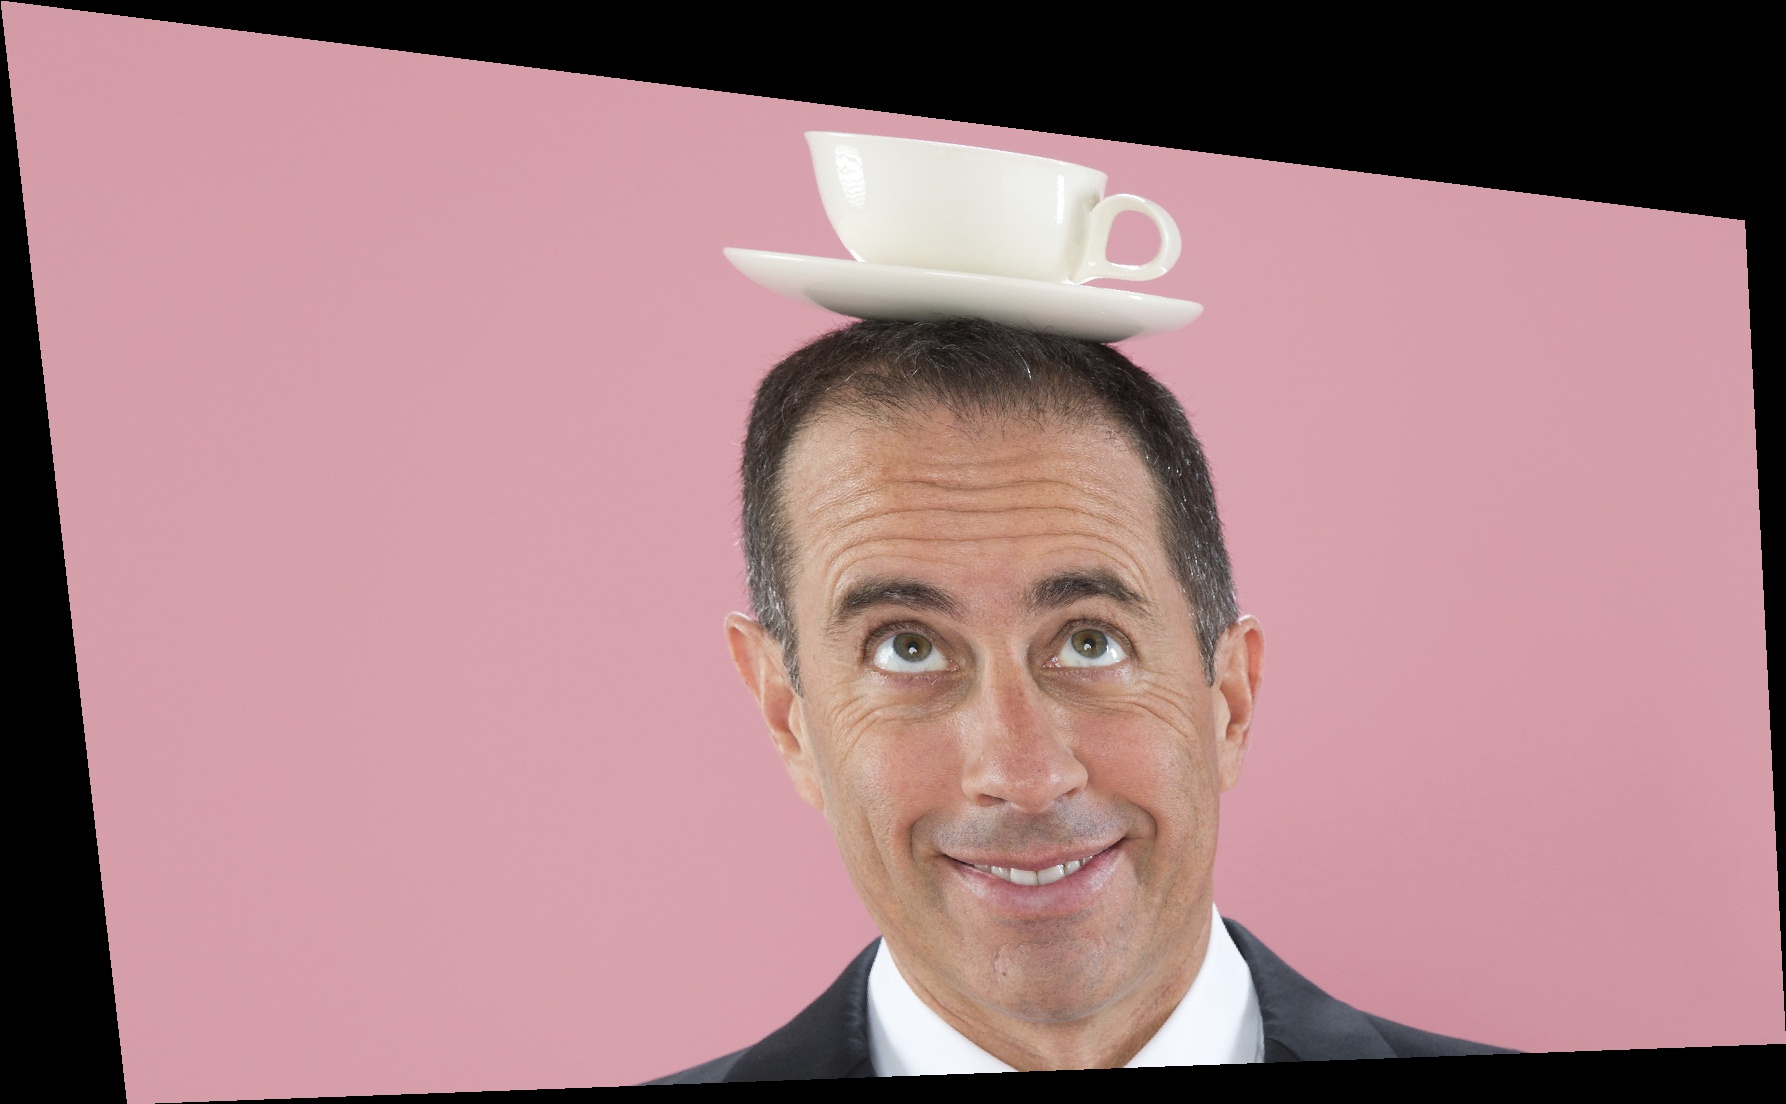
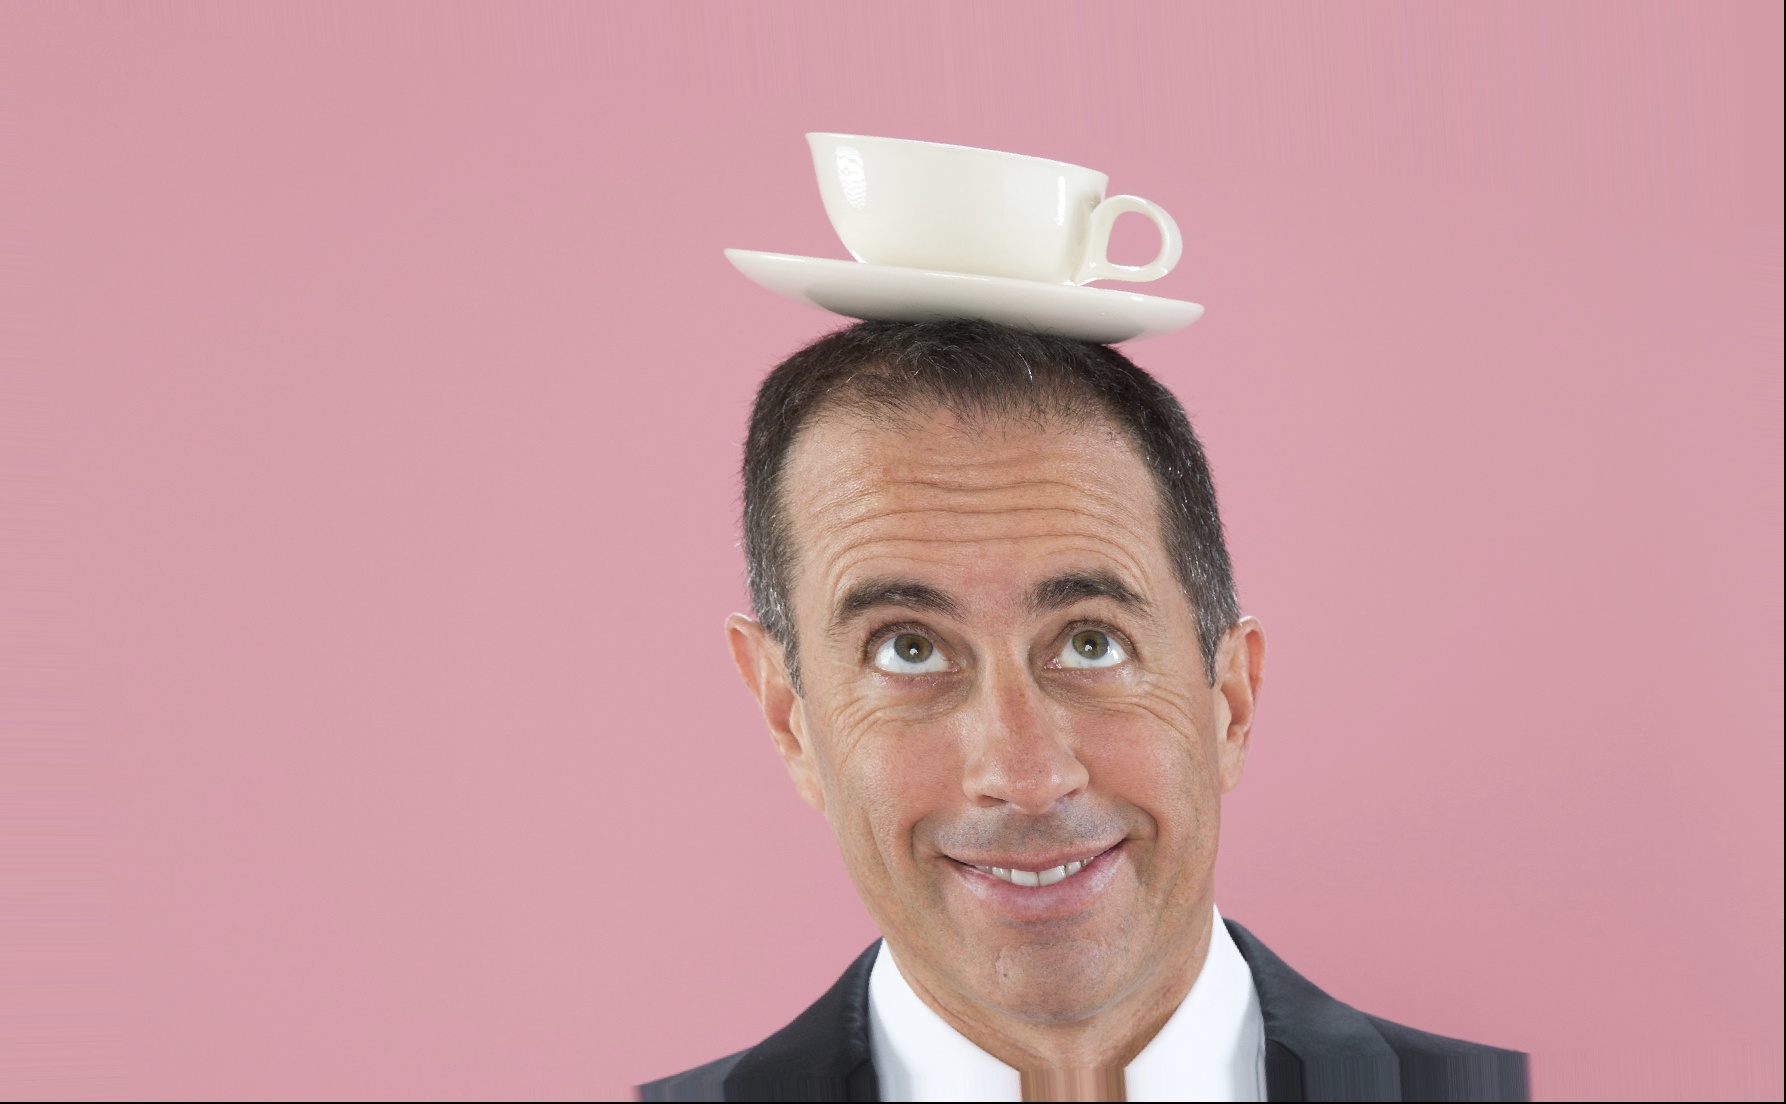
apply homography is working. Used clipping instead of leaving a 0

diff --git a/utils/helpers.py b/utils/helpers.py
@@ -1,6 +1,6 @@
 import cv2
 import numpy as np
-import os
+import os, time
 
 def find_homography_2d(pts1, pts2):
     # Assertion
@@ -27,38 +27,52 @@ def find_homography_2d(pts1, pts2):
     Hinv = np.linalg.inv(H)
     return H, Hinv / Hinv[-1,-1]
 
-def apply_homography(img_path, H):
-	H[:,2] = 1.0 # To ensure there is no translation of the image.
-	img = cv2.imread(img_path)
-	xv, yv = np.meshgrid(range(img.shape[1]), range(img.shape[0]))
-	img_pts = np.array([xv.flatten(), yv.flatten()]).T
-	trans_img_pts = np.dot(H, real_to_homo(img_pts).T)
-	trans_img_pts = homo_to_real(trans_img_pts.T).astype(int)
-	W_new, H_new = np.max(trans_img_pts[:,0]), np.max(trans_img_pts[:,1])
-	img_new = np.zeros((H_new+1, W_new+1, 3), dtype = np.uint8)
+def apply_homography(img_path, H, num_partitions = 1):
+    H[:2,-1] = 0.0 # To ensure there is no translation of the image.
+    img = cv2.imread(img_path)
+    xv, yv = np.meshgrid(range(0, img.shape[1], img.shape[1]-1), range(0, img.shape[0], img.shape[0]-1))
+    img_pts = np.array([xv.flatten(), yv.flatten()]).T
+    trans_img_pts = np.dot(H, real_to_homo(img_pts).T)
+    trans_img_pts = homo_to_real(trans_img_pts.T).astype(int)
+    W_new, H_new = np.max(trans_img_pts[:,0]), np.max(trans_img_pts[:,1])
+    img_new = np.zeros((H_new+1, W_new+1, 3), dtype = np.uint8)
 
-	img_new[trans_img_pts[:,1].tolist(), trans_img_pts[:,0].tolist(), :] = img[img_pts[:,1].tolist(), img_pts[:,0].tolist(), :]
+    x_batch_sz = int(W_new/float(num_partitions))
+    y_batch_sz = int(H_new/float(num_partitions))
+    for x_part_idx in range(num_partitions):
+        for y_part_idx in range(num_partitions):
+            x_start, x_end = x_part_idx*x_batch_sz, (x_part_idx+1)*x_batch_sz
+            y_start, y_end = y_part_idx*y_batch_sz, (y_part_idx+1)*y_batch_sz
+            xv, yv = np.meshgrid(range(x_start, x_end), range(y_start, y_end))
+            img_new_pts = np.array([xv.flatten(), yv.flatten()]).T
+            trans_img_new_pts = np.dot(np.linalg.inv(H), real_to_homo(img_new_pts).T)
+            trans_img_new_pts = homo_to_real(trans_img_new_pts.T).astype(int)
+            trans_img_new_pts[:,0] = np.clip(trans_img_new_pts[:,0], 0, img.shape[1]-1)
+            trans_img_new_pts[:,1] = np.clip(trans_img_new_pts[:,1], 0, img.shape[0]-1)
 
-	write_filepath = os.path.join(os.path.dirname(img_path), os.path.basename(img_path).split('.')[0]+'_new2.jpg')
-	cv2.imwrite(write_filepath, img_new)
+            # This is the bottle nect step. It takes the most time.
+            img_new[img_new_pts[:,1].tolist(), img_new_pts[:,0].tolist(), :] = img[trans_img_new_pts[:,1].tolist(), trans_img_new_pts[:,0].tolist(), :]
+
+    write_filepath = os.path.join(os.path.dirname(img_path), os.path.basename(img_path).split('.')[0]+'_new2.jpg')
+    cv2.imwrite(write_filepath, img_new)
 
 def apply_trans_patch(base_img_path, template_img_path, H):
-	## Read images
-	base_img = cv2.imread(base_img_path)
-	temp_img = cv2.imread(template_img_path)
+    ## Read images
+    base_img = cv2.imread(base_img_path)
+    temp_img = cv2.imread(template_img_path)
 
-	xv, yv = np.meshgrid(range(temp_img.shape[1]), range(temp_img.shape[0]))
-	temp_img_pts = np.array([xv.flatten(), yv.flatten()]).T
-	trans_temp_img_pts = np.dot(H, real_to_homo(temp_img_pts).T)
+    xv, yv = np.meshgrid(range(temp_img.shape[1]), range(temp_img.shape[0]))
+    temp_img_pts = np.array([xv.flatten(), yv.flatten()]).T
+    trans_temp_img_pts = np.dot(H, real_to_homo(temp_img_pts).T)
 
-	trans_temp_img_pts = homo_to_real(trans_temp_img_pts.T).astype(int)
-	trans_temp_img_pts[:,0] = np.clip(trans_temp_img_pts[:,0], 0, base_img.shape[1])
-	trans_temp_img_pts[:,1] = np.clip(trans_temp_img_pts[:,1], 0, base_img.shape[0])
+    trans_temp_img_pts = homo_to_real(trans_temp_img_pts.T).astype(int)
+    trans_temp_img_pts[:,0] = np.clip(trans_temp_img_pts[:,0], 0, base_img.shape[1]-1)
+    trans_temp_img_pts[:,1] = np.clip(trans_temp_img_pts[:,1], 0, base_img.shape[0]-1)
 
-	base_img[trans_temp_img_pts[:,1].tolist(), trans_temp_img_pts[:,0].tolist(), :] = temp_img[temp_img_pts[:,1].tolist(), temp_img_pts[:,0].tolist(), :]
+    base_img[trans_temp_img_pts[:,1].tolist(), trans_temp_img_pts[:,0].tolist(), :] = temp_img[temp_img_pts[:,1].tolist(), temp_img_pts[:,0].tolist(), :]
 
-	write_filepath = os.path.join(os.path.dirname(base_img_path), os.path.basename(base_img_path).split('.')[0]+'_new.jpg')
-	cv2.imwrite(write_filepath, base_img)
+    write_filepath = os.path.join(os.path.dirname(base_img_path), os.path.basename(base_img_path).split('.')[0]+'_new.jpg')
+    cv2.imwrite(write_filepath, base_img)
 
 def real_to_homo(pts):
     # pts is a 2D numpy array of size _ x 2/3

diff --git a/Homework_2/main.py b/Homework_2/main.py
@@ -4,6 +4,8 @@ import numpy as np
 sys.path.insert(0, os.path.join('..', 'utils'))
 from helpers import *
 
+import time
+
 ## Initialization
 all_img_paths = [os.path.join('.','images','1.jpg'), os.path.join('.','images','2.jpg'), os.path.join('.','images','3.jpg'), os.path.join('.','images','Seinfeld.jpg')]
 
@@ -11,14 +13,14 @@ all_img_paths = [os.path.join('.','images','1.jpg'), os.path.join('.','images','
 # img_path_ref = os.path.join('.','images','n2.jpg')
 
 img_path = all_img_paths[0]
-img_path_ref = all_img_paths[1]
+img_path_ref = all_img_paths[2]
 
 pts = create_matching_points(img_path)['mps']
 pts_ref = create_matching_points(img_path_ref)['mps']
 
 ## Find homography from 2 --> 1
 H, _ = find_homography_2d(pts, pts_ref)
-print H, H.shape
+# print H, H.shape
 
 # apply_trans_patch(img_path, img_path_ref, H)
-apply_homography(img_path_ref, H)
+apply_homography(img_path_ref, H, num_partitions = 2)
